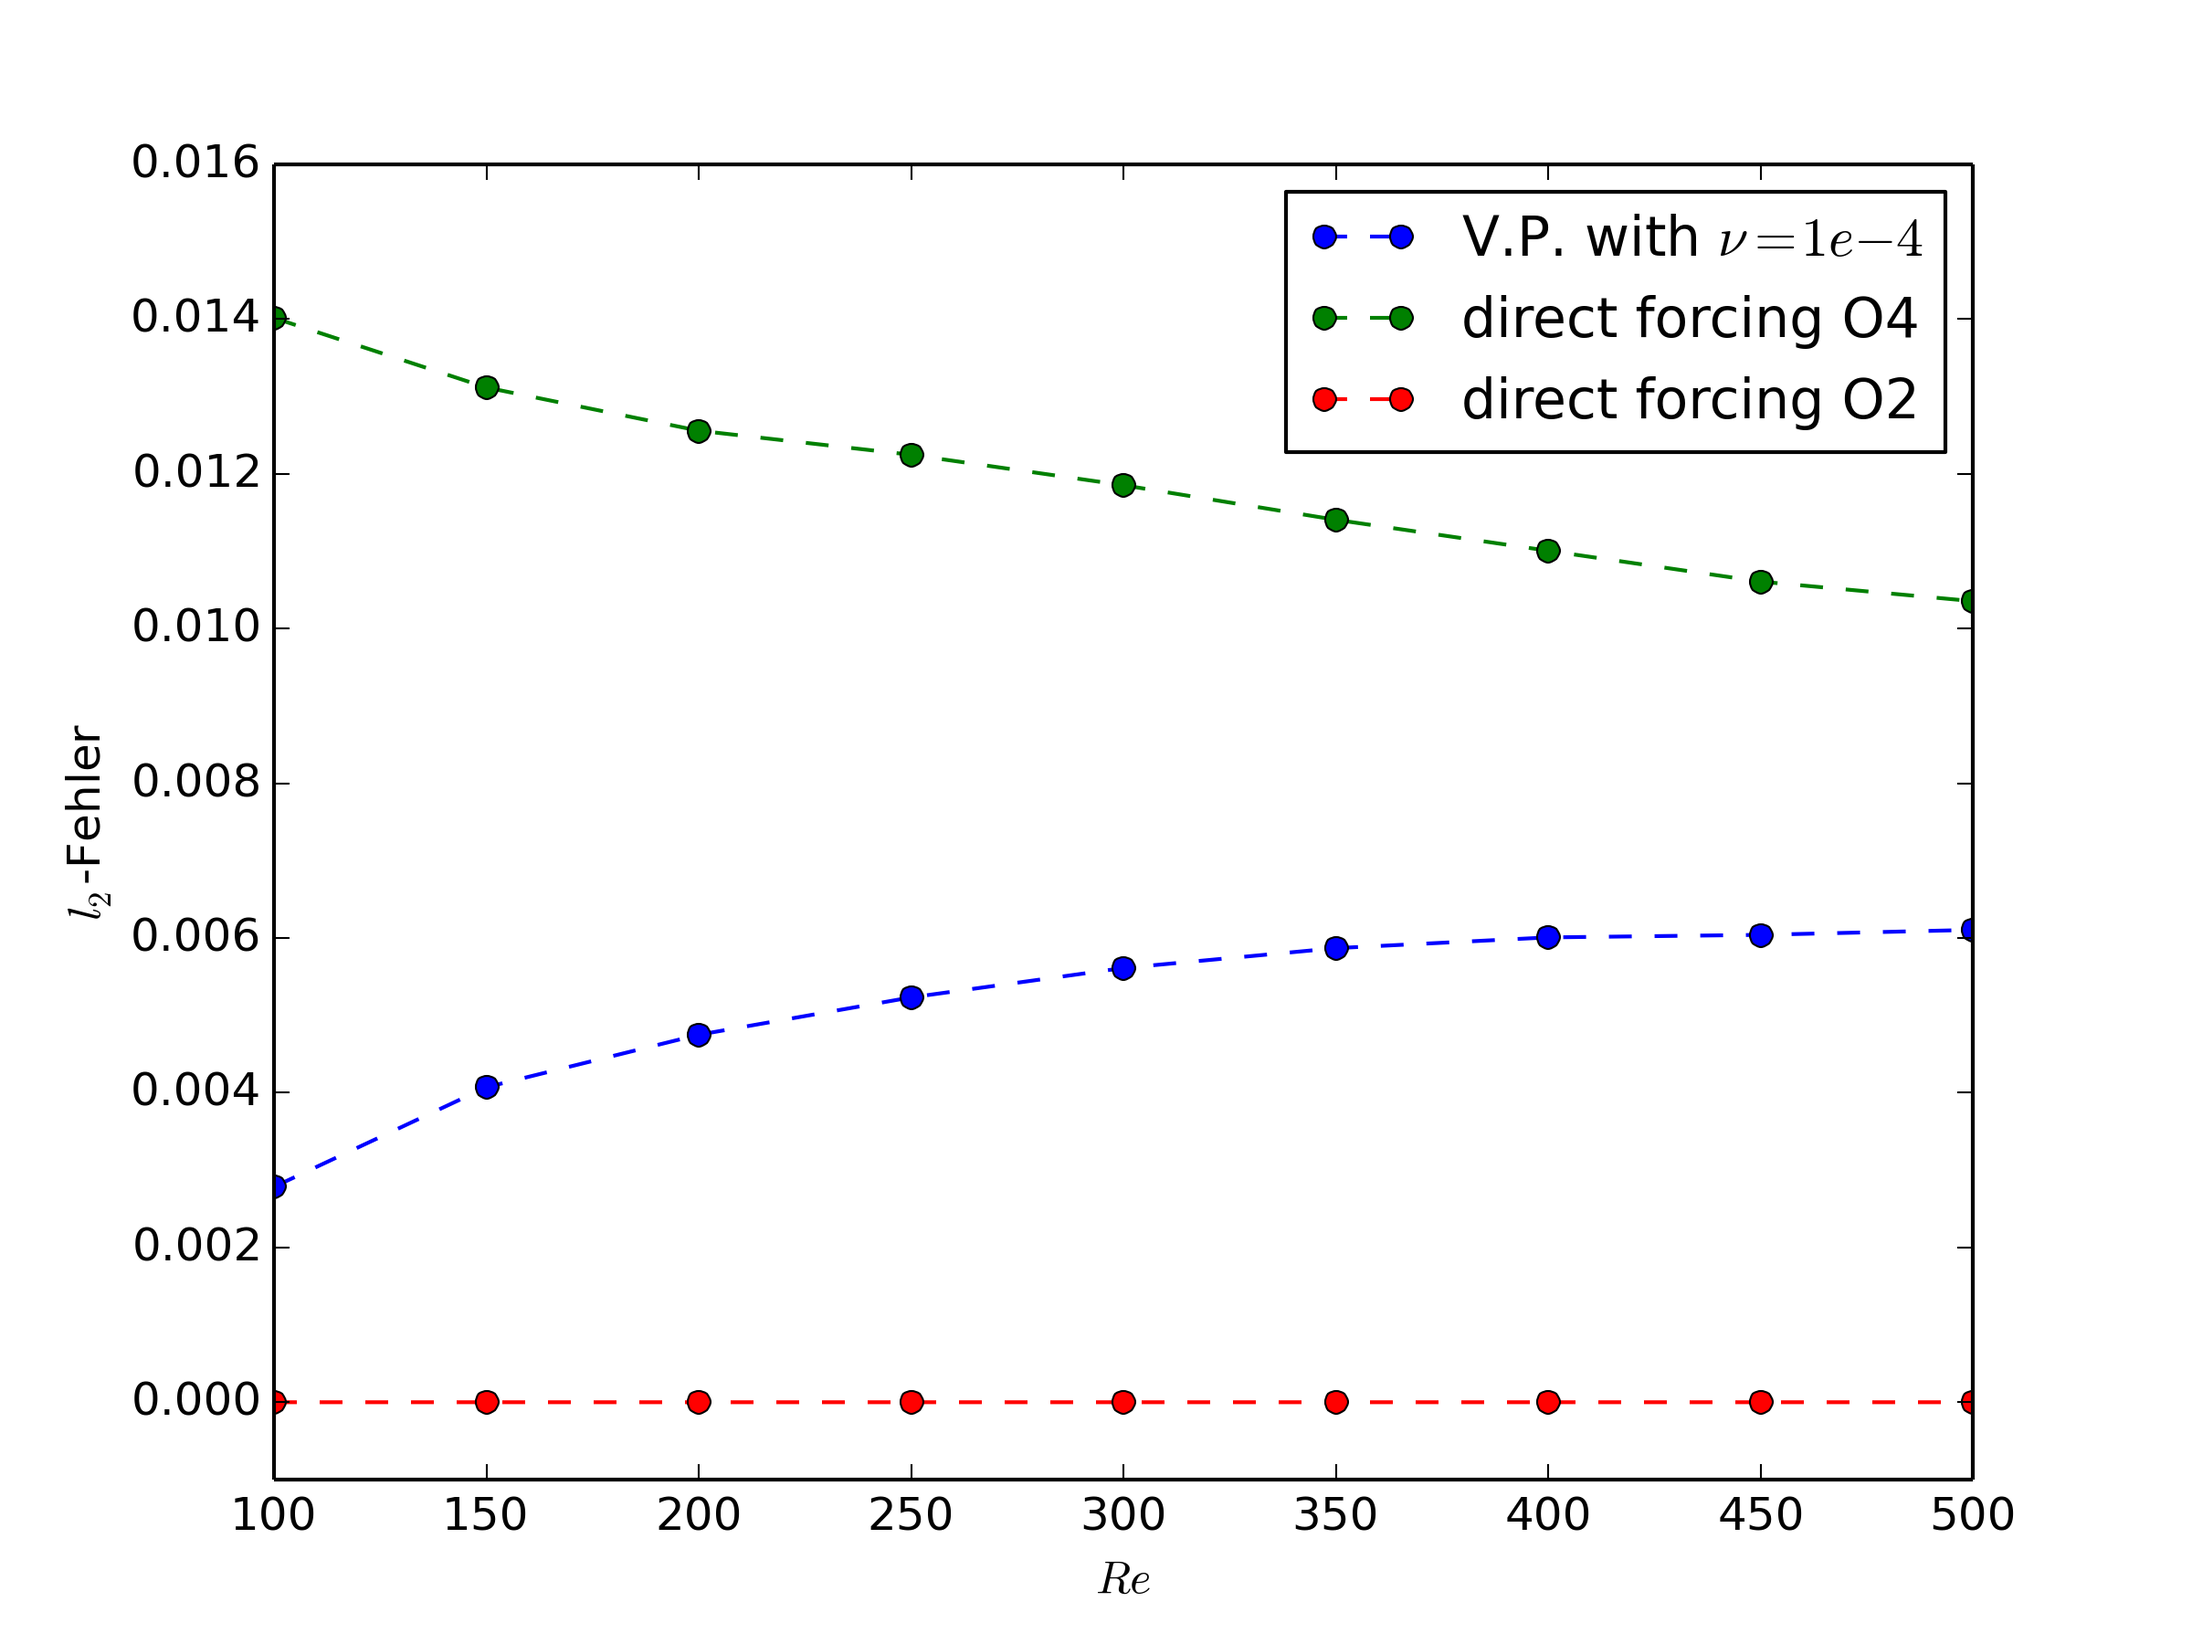
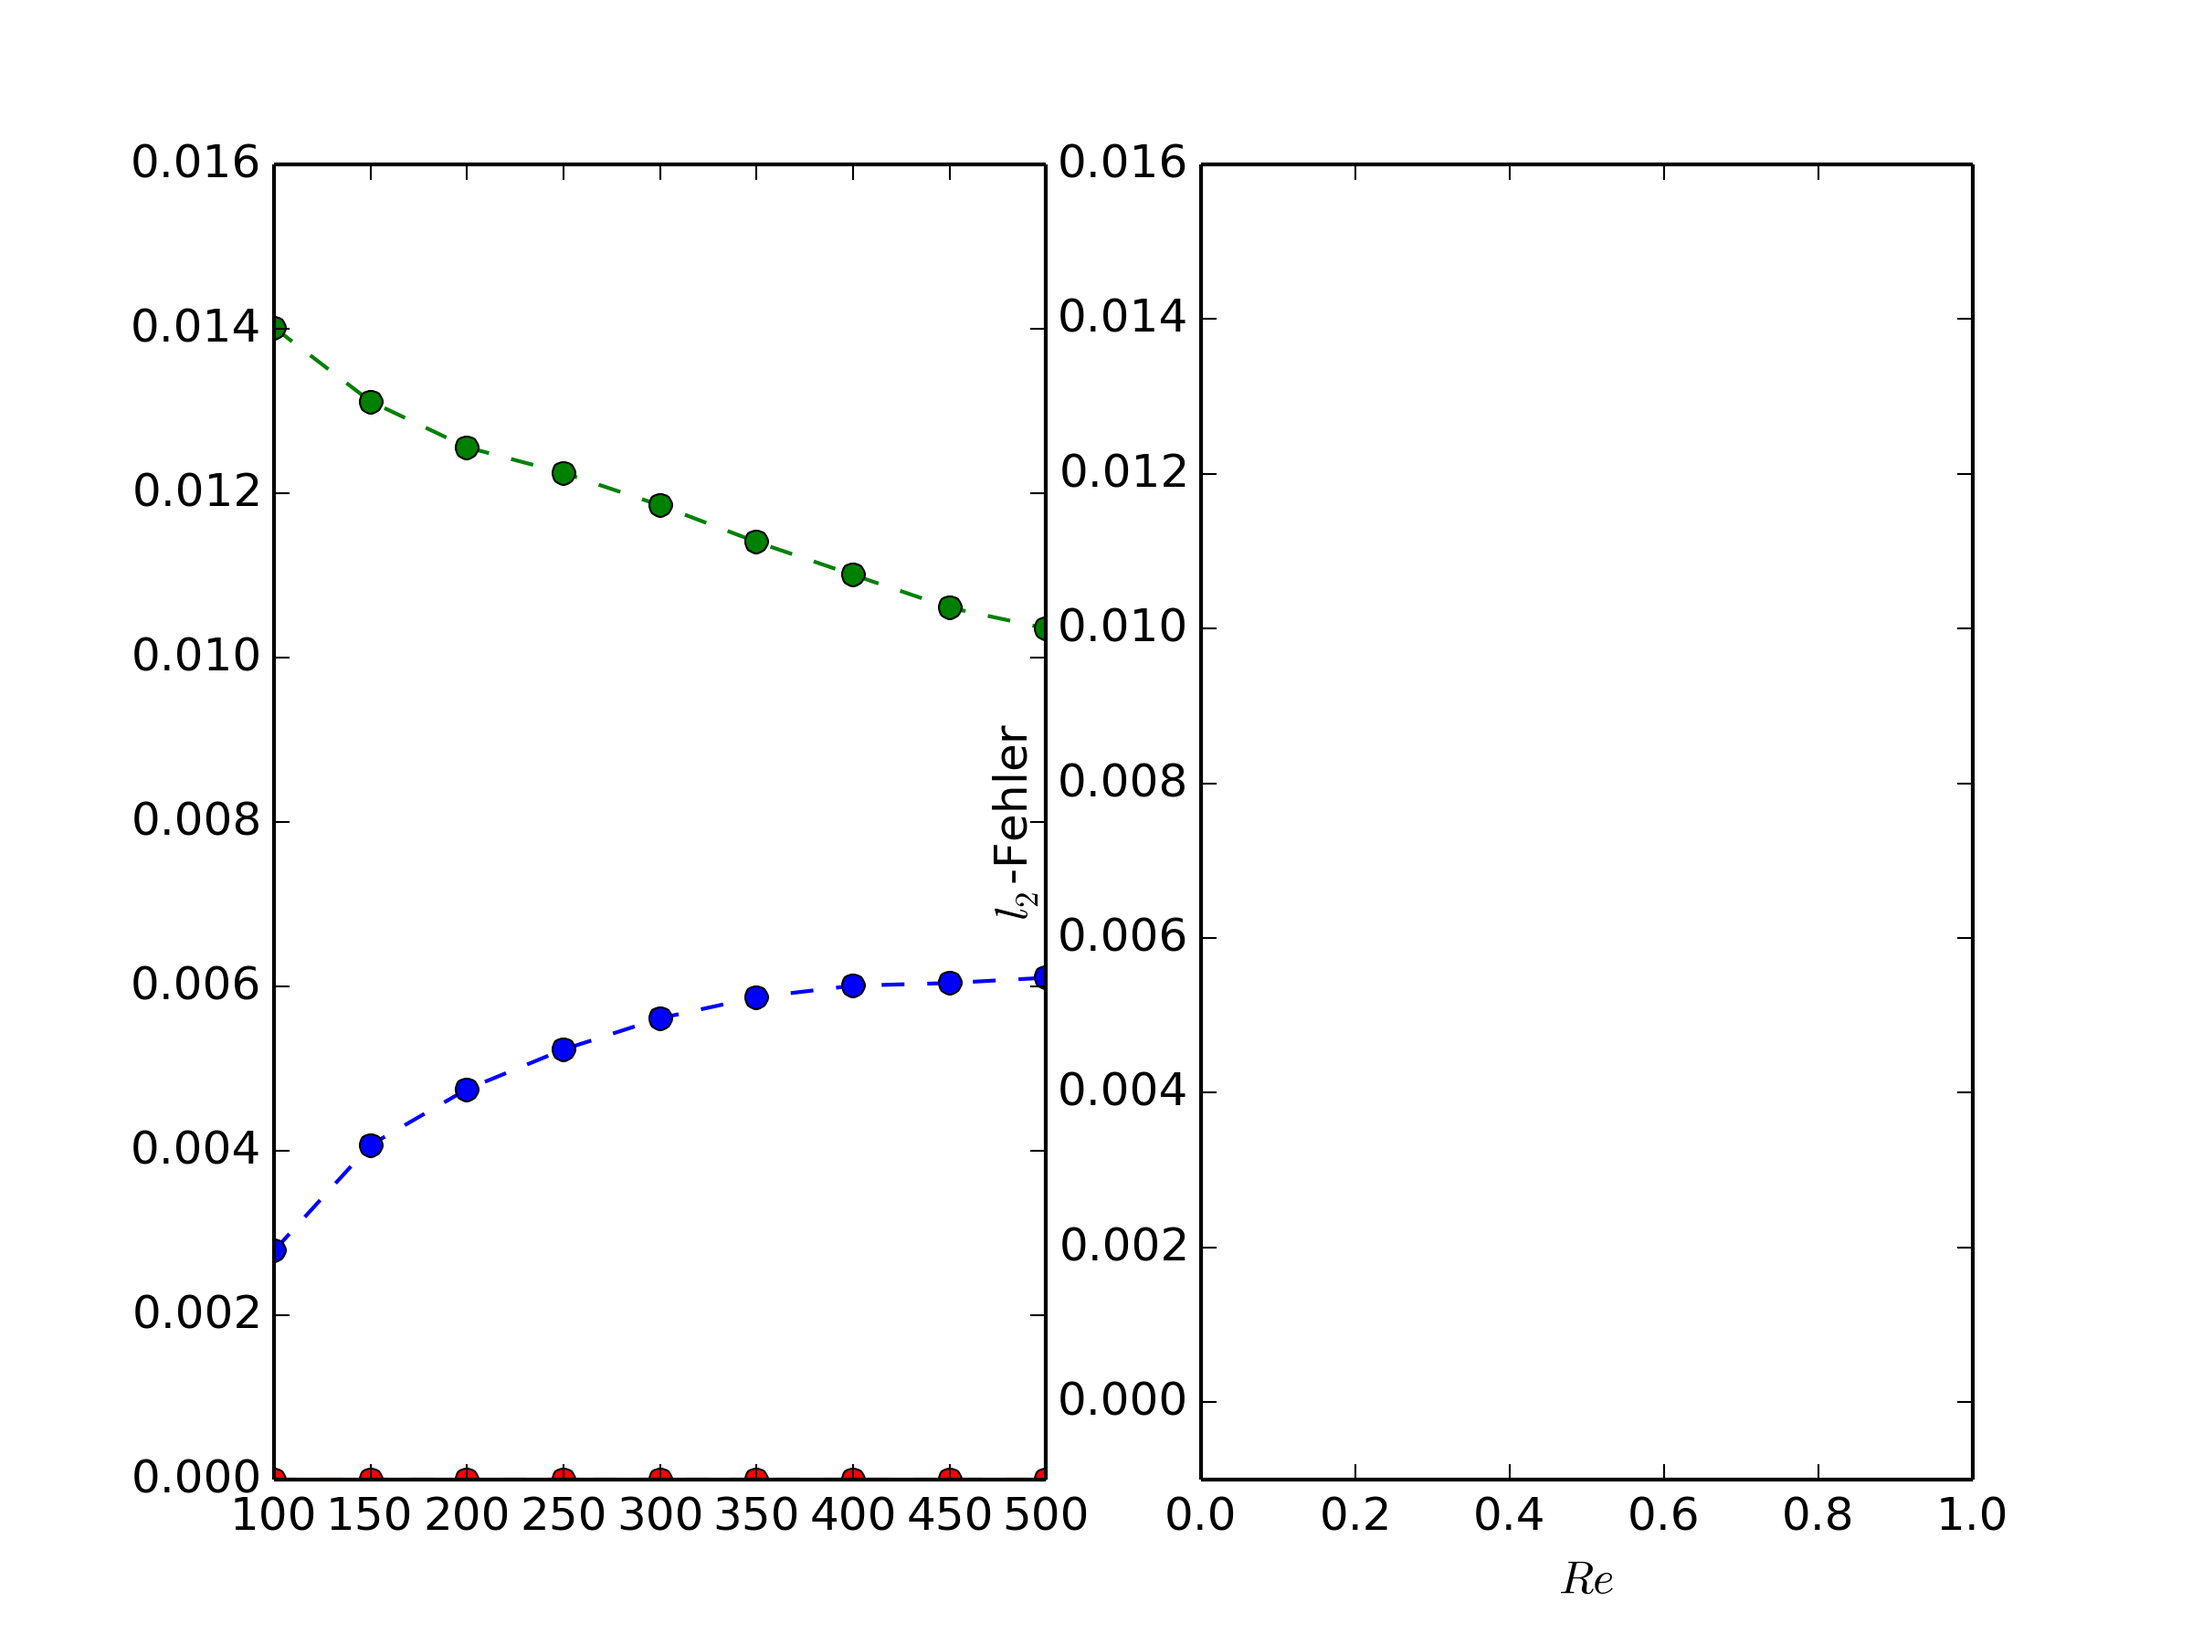
add stuff

diff --git a/chapters/numerische_methoden.tex b/chapters/numerische_methoden.tex
@@ -130,10 +130,12 @@ Betrachtet man den absoluten Fehler, so fällt auf das im Bereich $\nu>5\cdot10^
 Dies entspricht zunächst der Erwartung, da das Geschwindigkeitsprofil mit steigender Reynoldszahl stärker an der Wand zerrt.
 Allerdings kommt es im Bereich $\nu \in [1e-3 - 1e-2]$ zu einem umgekehrten Verhalten, der Fehler nimmt mit der Reynoldszahl ab,
 Du Ursache hierfür liess sich nicht eindeutig klären.
--Fluktuation  im Rand
 Für den relativen Fehler lässt sich ein Abfall mit steigender Reynoldszahl beobachten. Da $\vec{f} \propto (\vec{v}-\vec{v_0})  \propto Re$ wird der Reibunsterm
 proportional zur Reynoldszahl skaliert. Der Fehler durch den Rand ändert sich, im Vergleich zum Geschwindigskeitsprofil kaum, wodurch der Abfall zustande kommt.
 Der relative Fehler fällt bei $\nu=1e-4=10\Delta t$ auf unter 1\%, wodurch dieser Wert als geeignet angesehen werden kann für zukünftige Simulationen mit der Volume-Penalization Methode.
+
+-todo: fluktuation im rand
+
 
 \subsection{Direct Forcing Methode}
 Während die Volume Penalization Methode die Geschwindigkeit ausserhalb des Volumens nicht vollständig auf Null setzt,
@@ -149,18 +151,28 @@ Mit Formel () folgt
 \begin{align}
     \frac{\vec{u}_0 -\vec{u}^n}{\Delta t} = \mathsrc{L} + \vec{f} \Rightarrow \vec{f} = \frac{\vec{u}_0 -\vec{u}^n}{\Delta t\cdot \mathsrc{L}}\\
 \end{align}
-Mit der Annahme dass der Rand mit dem numerischen Gitter übereinstimmt ist es nicht nötig den Kraftterm zur berechnen, stattdessen lässt sich der Schritt vereinfachen in dem der Randwert nach  jedem Zeitschritt direkt auf die gewünschte Randbedingung gesetzt wird. Durch die implizite Behandlung kommt es zu keiner weiter Stabilitätsbedingung.
+Mit der Annahme dass der Rand mit dem numerischen Gitter übereinstimmt ist es nicht nötig den Kraftterm zur berechnen, stattdessen lässt sich der
+Schritt vereinfachen in dem der Randwert nach  jedem Zeitschritt direkt auf die gewünschte Randbedingung gesetzt wird. Durch die
+implizite Behandlung kommt es zu keiner weiter Stabilitätsbedingung.
+Analog zur Volume-Penalization Methode wurde eine Serie von Simulationen für eine planare Poiseuille-Strömung durchgeführt.
+Das Setup enstpricht dem gleichen wie in Abschnitt (X), lediglich das Verfahren wurde entsprechend angepasst und es wurden finite Differenzen Verfahren zweiter und
+vierter Ordnung getestet.
+In Abbildung () ist der relative Fehler, im Vergleich zur Volume Penalization  Methode mit $\nu=1e-4$ dargestellt.
+Für das Verfahren vierter Ordnung liegt der Fehler im Bereich von 1\% und ist im Mittel doppelt so groß wie für die Volume-Penalization Methode.
+Der Fehler für das Verfahren zweiter Ordnung verschwindet hingegen nahezu.
+Das Verhalten lässt sich durch die Verwendung unterschliedlicher Schablonen, wie in Abb() dargestellt,  der finiten differenzen Verfahren erklären.
+Während das Verfahren zweiter Ordnung nur den Randpunkt sieht, liegt bei der vierten Ordnung ein Punkt innerhalb des Randes.
+Da auch dieser Wert auf Null gesetzt wird, kommt es zu einem fehler in der Berechnung von $\nabla u$.
 
--Paper quote
--vgl volume penalization warum keine instablilität
--formeln
--implementierung
-
-\begin{figure}[!bp]
+\begin{figure}[!tpb]
   \centering
   \includegraphics[width=0.6\textwidth]{gfx/immersed_boundary_methods/dfo2o4.png}\label{fig:df_o2o4}
   \caption{bla}
 \end{figure}
+
+-Zeitserie
+
+-einleitung gekrümmte geometrien
 
 \subsection{Direct Forcing mit Volume Fraction}
 -paper quote formeln

diff --git a/gfx/immersed_boundary_methods/plot/df_l2error.py b/gfx/immersed_boundary_methods/plot/df_l2error.py
@@ -36,10 +36,12 @@ def main():
     d = np.load('data/direct_forcing/dfo2.npy')
     dfreo2, dfl2relo2, dfl2abso2 = d.T
 
+    f, (ax1, ax2) = plt.subplots(1, 2)
 
-    plt.plot(res, l2rel, 'o--', label=r'V.P. with $\nu=1e-4$')
-    plt.plot(dfre, dfl2rel, 'o--', label='direct forcing O4')
-    plt.plot(dfreo2, dfl2relo2, 'o--', label='direct forcing O2')
+
+    ax1.plot(res, l2rel, 'o--', label=r'V.P. with $\nu=1e-4$')
+    ax1.plot(dfre, dfl2rel, 'o--', label='direct forcing O4')
+    ax1.plot(dfreo2, dfl2relo2, 'o--', label='direct forcing O2')
 
     plt.xlabel(r'$Re$')
     plt.ylabel(r'$l_2$-Fehler')
